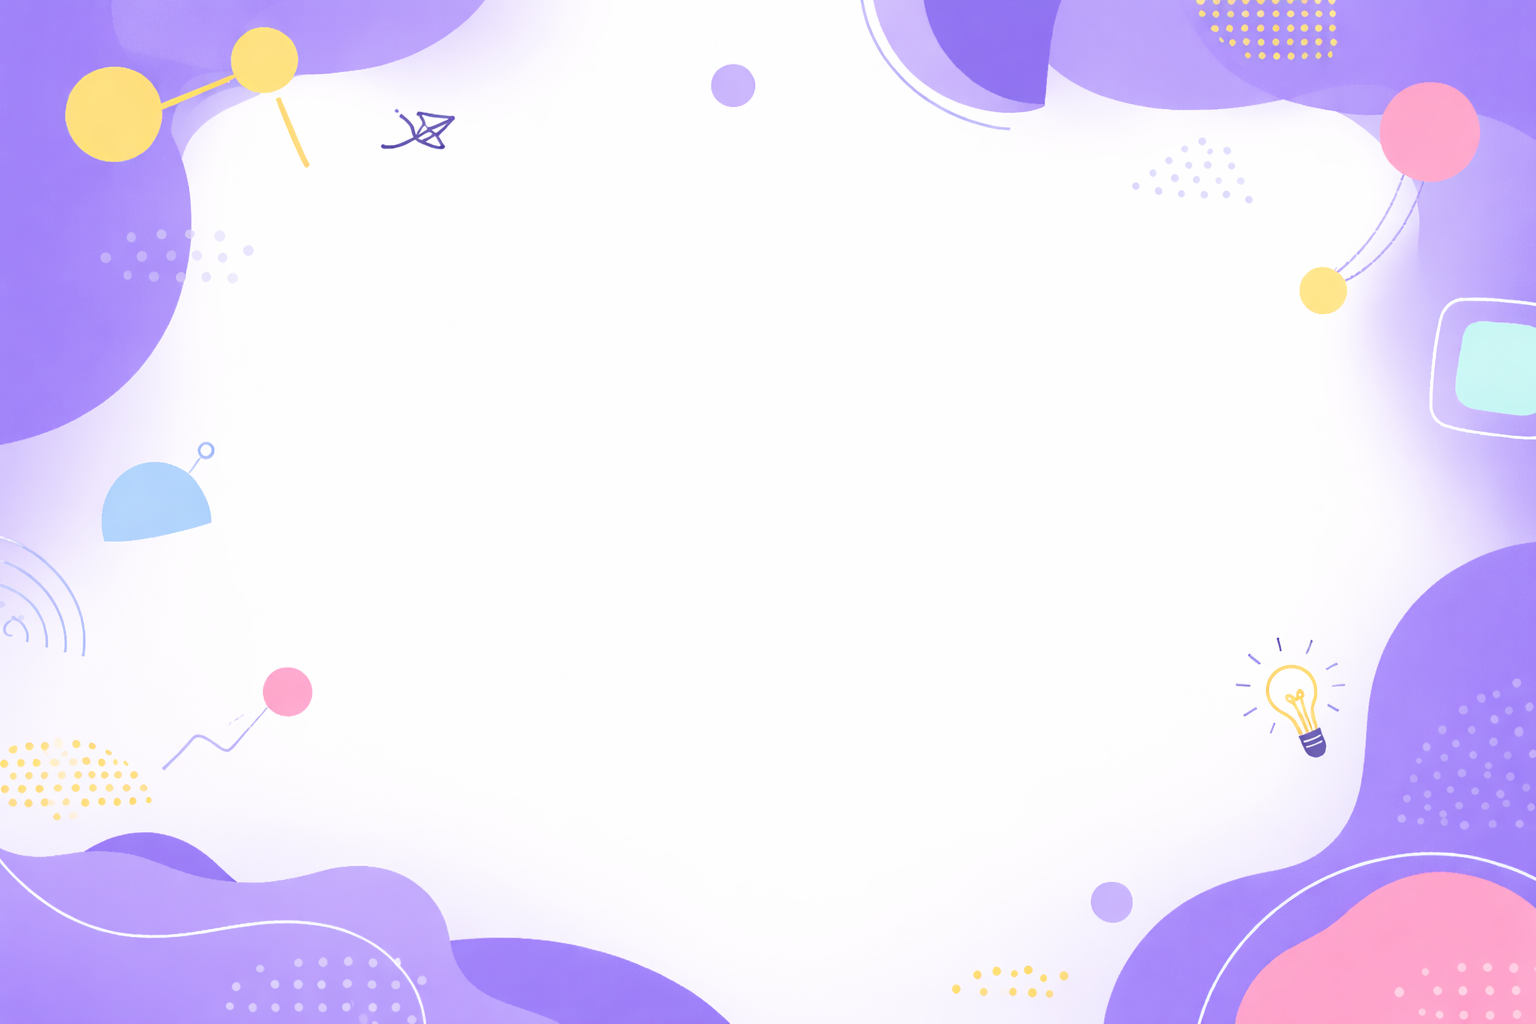
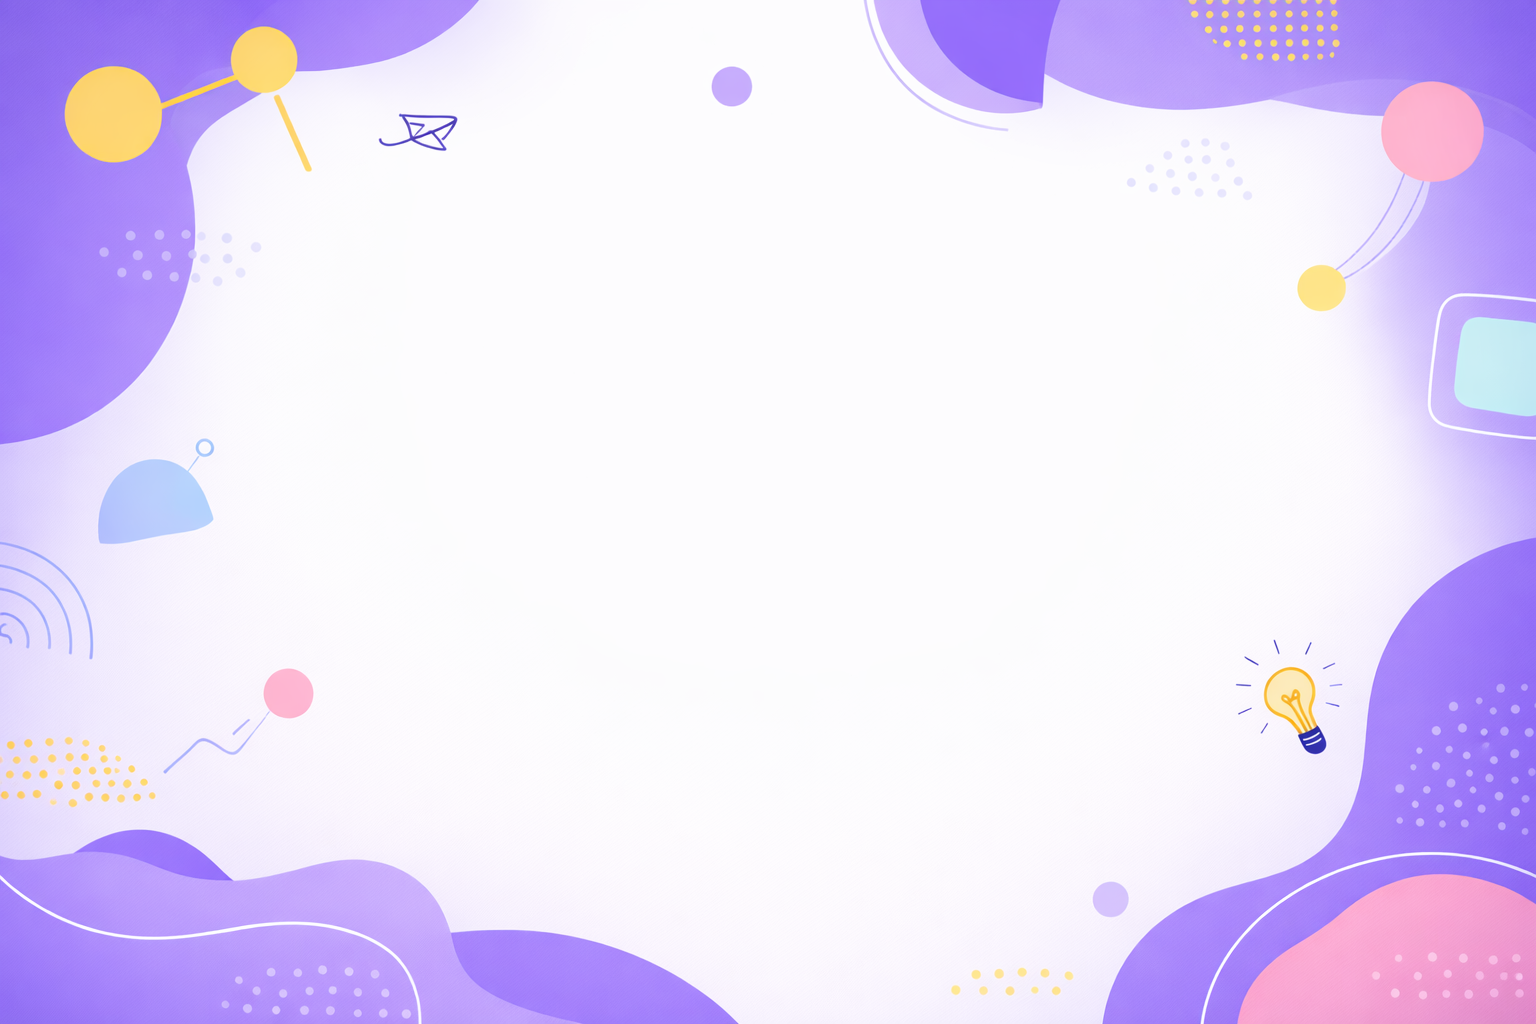
fix

diff --git a/src/components/PerfilProfessor.tsx b/src/components/PerfilProfessor.tsx
@@ -163,8 +163,18 @@ export default function PerfilProfessor({ id }: PropriedadesPerfilProfessor) {
 
 
   return (
-    <div className="min-h-screen bg-transparent">
-      <div className="max-w-6xl mx-auto px-4 sm:px-6 lg:px-8 py-8">
+    <div className="min-h-screen bg-transparent relative">
+      <div 
+        className="fixed inset-0 z-0"
+        style={{
+          backgroundImage: 'url(/backgroundProfile.png)',
+          backgroundSize: 'cover',
+          backgroundPosition: 'center',
+          backgroundRepeat: 'no-repeat',
+          backgroundAttachment: 'fixed'
+        }}
+      />
+      <div className="relative z-10 max-w-6xl mx-auto px-4 sm:px-6 lg:px-8 py-8">
        
         <div className="bg-white rounded-xl shadow-sm border border-gray-200 overflow-hidden mb-8">
           <div className="p-8">
@@ -234,7 +244,7 @@ export default function PerfilProfessor({ id }: PropriedadesPerfilProfessor) {
                 <div className="flex flex-col sm:flex-row gap-3 justify-center md:justify-start">
                   <button
                     onClick={lidarComCliqueBotaoAgendar}
-                    className="bg-indigo-600 hover:bg-indigo-700 text-white px-6 py-3 rounded-lg font-medium transition-colors flex items-center justify-center space-x-2 shadow-sm"
+                    className="bg-[#6562ff] text-white px-6 py-3 rounded-lg font-medium transition-colors flex items-center justify-center space-x-2 shadow-sm"
                   >
                     <Calendar className="w-5 h-5" />
                     <span>Agendar Aula</span>

diff --git a/src/components/CartaoProfessor.tsx b/src/components/CartaoProfessor.tsx
@@ -40,7 +40,7 @@ export default function CartaoProfessor({
           <span className="text-gray-700">Online</span>
         </div>
         
-        <div className="absolute top-4 right-4 flex items-center gap-1 rounded-full bg-gradient-to-r from-indigo-600 to-purple-600 backdrop-blur-sm px-3 py-1.5 text-xs font-medium text-white">
+        <div className="absolute top-4 right-4 flex items-center gap-1 rounded-full bg-[#6562ff] backdrop-blur-sm px-3 py-1.5 text-xs font-medium text-white">
           <CheckCircle className="h-3.5 w-3.5" />
           Verificado
         </div>
@@ -123,7 +123,7 @@ export default function CartaoProfessor({
           </div>
           <Link
             href={`/teacher/${professor.id}`}
-            className="flex items-center gap-2 rounded-xl bg-gradient-to-r from-indigo-600 to-purple-600 px-5 py-2.5 text-sm font-semibold text-white shadow-md hover:from-indigo-700 hover:to-purple-700 transition-all duration-200 transform hover:scale-105"
+            className="flex items-center gap-2 rounded-xl bg-[#6562ff] px-5 py-2.5 text-sm font-semibold text-white shadow-md hover:from-indigo-700 hover:to-purple-700 transition-all duration-200 transform hover:scale-105"
           >
             Ver Perfil
             <ArrowRight className="h-4 w-4" />

diff --git a/src/app/page.tsx b/src/app/page.tsx
@@ -172,7 +172,7 @@ export default function Home() {
             <div className="lg:w-1/2 text-left">
               <h1 className={`${plusJakarta.className} text-5xl md:text-6xl lg:text-7xl font-extrabold text-gray-900 mb-6 leading-tight`}>
                 A Plataforma Moderna de
-                <span className="bg-gradient-to-r from-indigo-600 via-purple-600 to-blue-600 bg-clip-text text-transparent block mt-2">
+                <span className="bg-[#6562ff] bg-clip-text text-transparent block mt-2">
                   Educação Online
                 </span>
               </h1>
